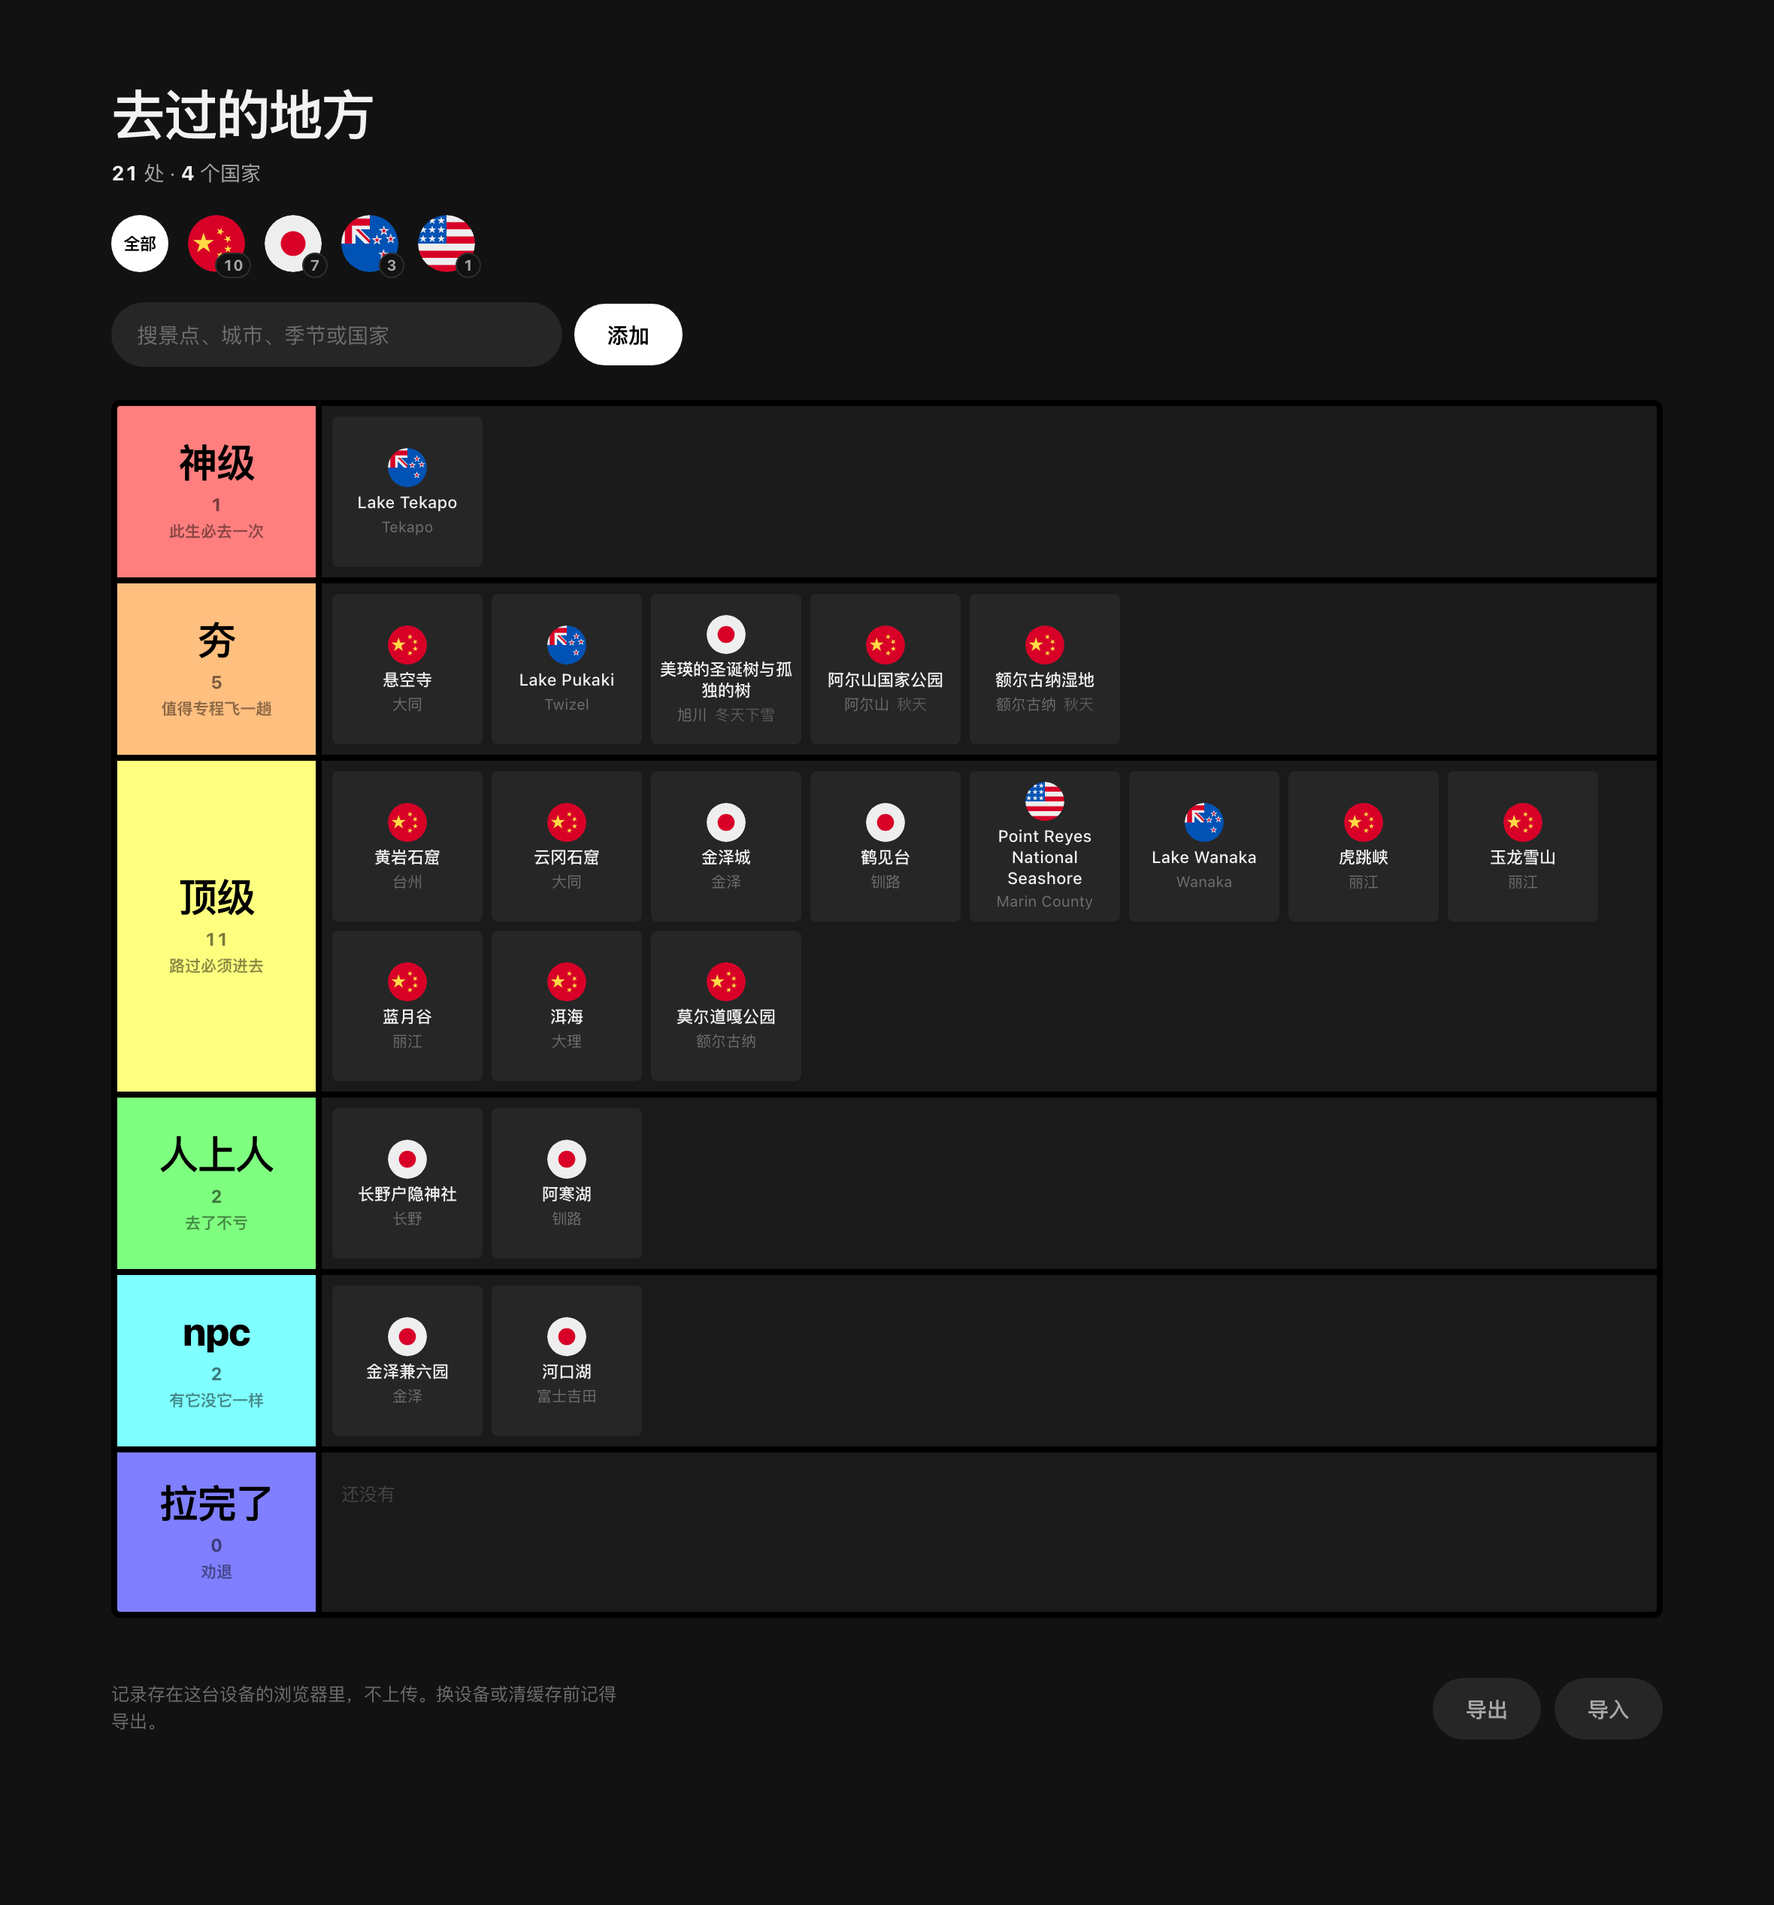
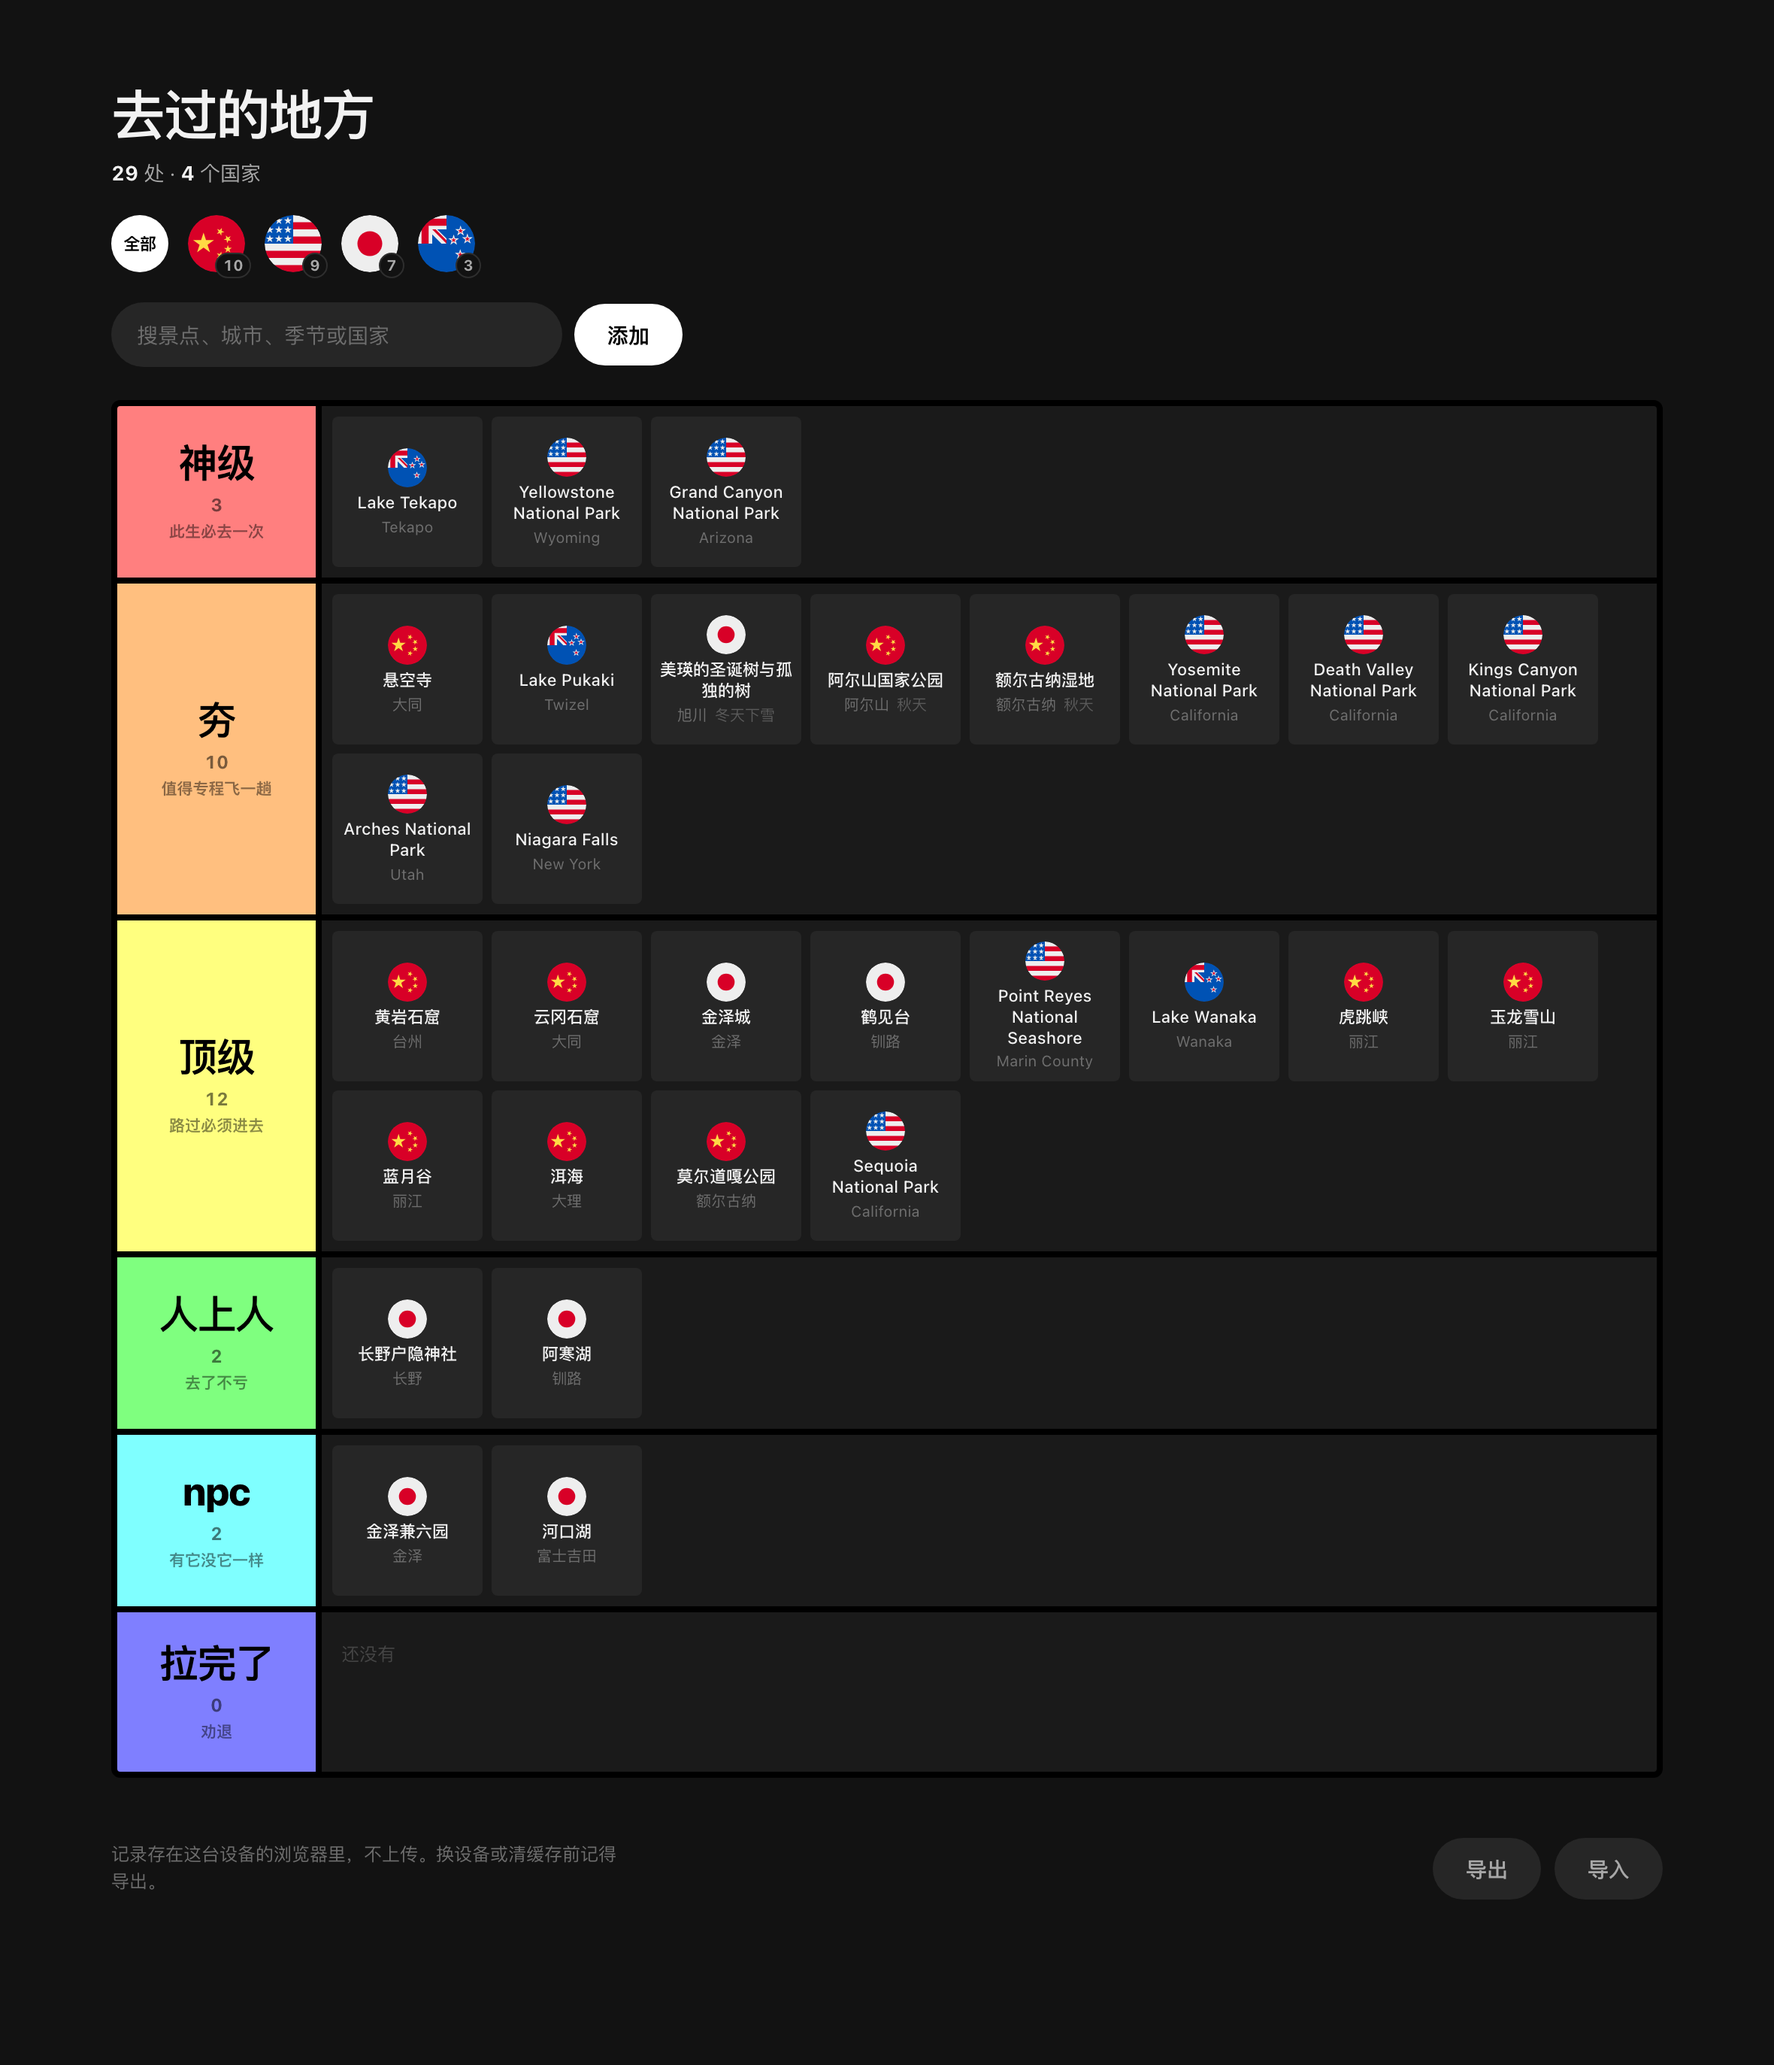
新增 8 个美国国家公园
神级  Yellowstone National Park    Wyoming
  神级  Grand Canyon National Park   Arizona
  夯    Yosemite National Park       California
  夯    Death Valley National Park   California
  夯    Kings Canyon National Park   California
  夯    Arches National Park         Utah
  夯    Niagara Falls                New York
  顶级  Sequoia National Park        California

共 29 处 / 4 个国家：中国 10、美国 9、日本 7、新西兰 3。

按既定规则（英语国家用英文原名）统一成官方名，顺带更正三处：
sequoa → Sequoia，arch → Arches（官方是复数），死亡谷「公家公园」→ 国家公园。

城市栏这批填的是州。这些国家公园都不在任何市内，填门户小镇
（West Yellowstone / Three Rivers / Furnace Creek）既冷僻又无助于定位，
州才是美国人定位国家公园的习惯说法。Point Reyes 仍是 Marin County，
与这批不齐，待确认是否一并改成 California。

29 条在桌面与手机均无截断、无溢出，视口内国旗全部加载成功。测试 66 项全过。

Changed region(s): [[0.0619, 0.0312, 0.928, 0.9353]]

diff --git a/spots.js b/spots.js
@@ -24,5 +24,13 @@ window.SPOTS = [
   { "name": "洱海"                         , "city": "大理"        , "season": ""        , "country": "中国"  , "tier": "top" },
   { "name": "阿尔山国家公园"               , "city": "阿尔山"      , "season": "秋天"    , "country": "中国"  , "tier": "hang" },
   { "name": "莫尔道嘎公园"                 , "city": "额尔古纳"    , "season": ""        , "country": "中国"  , "tier": "top" },
-  { "name": "额尔古纳湿地"                 , "city": "额尔古纳"    , "season": "秋天"    , "country": "中国"  , "tier": "hang" }
+  { "name": "额尔古纳湿地"                 , "city": "额尔古纳"    , "season": "秋天"    , "country": "中国"  , "tier": "hang" },
+  { "name": "Yellowstone National Park"    , "city": "Wyoming"     , "season": ""        , "country": "美国"  , "tier": "shen" },
+  { "name": "Grand Canyon National Park"   , "city": "Arizona"     , "season": ""        , "country": "美国"  , "tier": "shen" },
+  { "name": "Yosemite National Park"       , "city": "California"  , "season": ""        , "country": "美国"  , "tier": "hang" },
+  { "name": "Death Valley National Park"   , "city": "California"  , "season": ""        , "country": "美国"  , "tier": "hang" },
+  { "name": "Kings Canyon National Park"   , "city": "California"  , "season": ""        , "country": "美国"  , "tier": "hang" },
+  { "name": "Arches National Park"         , "city": "Utah"        , "season": ""        , "country": "美国"  , "tier": "hang" },
+  { "name": "Niagara Falls"                , "city": "New York"    , "season": ""        , "country": "美国"  , "tier": "hang" },
+  { "name": "Sequoia National Park"        , "city": "California"  , "season": ""        , "country": "美国"  , "tier": "top" }
 ];
